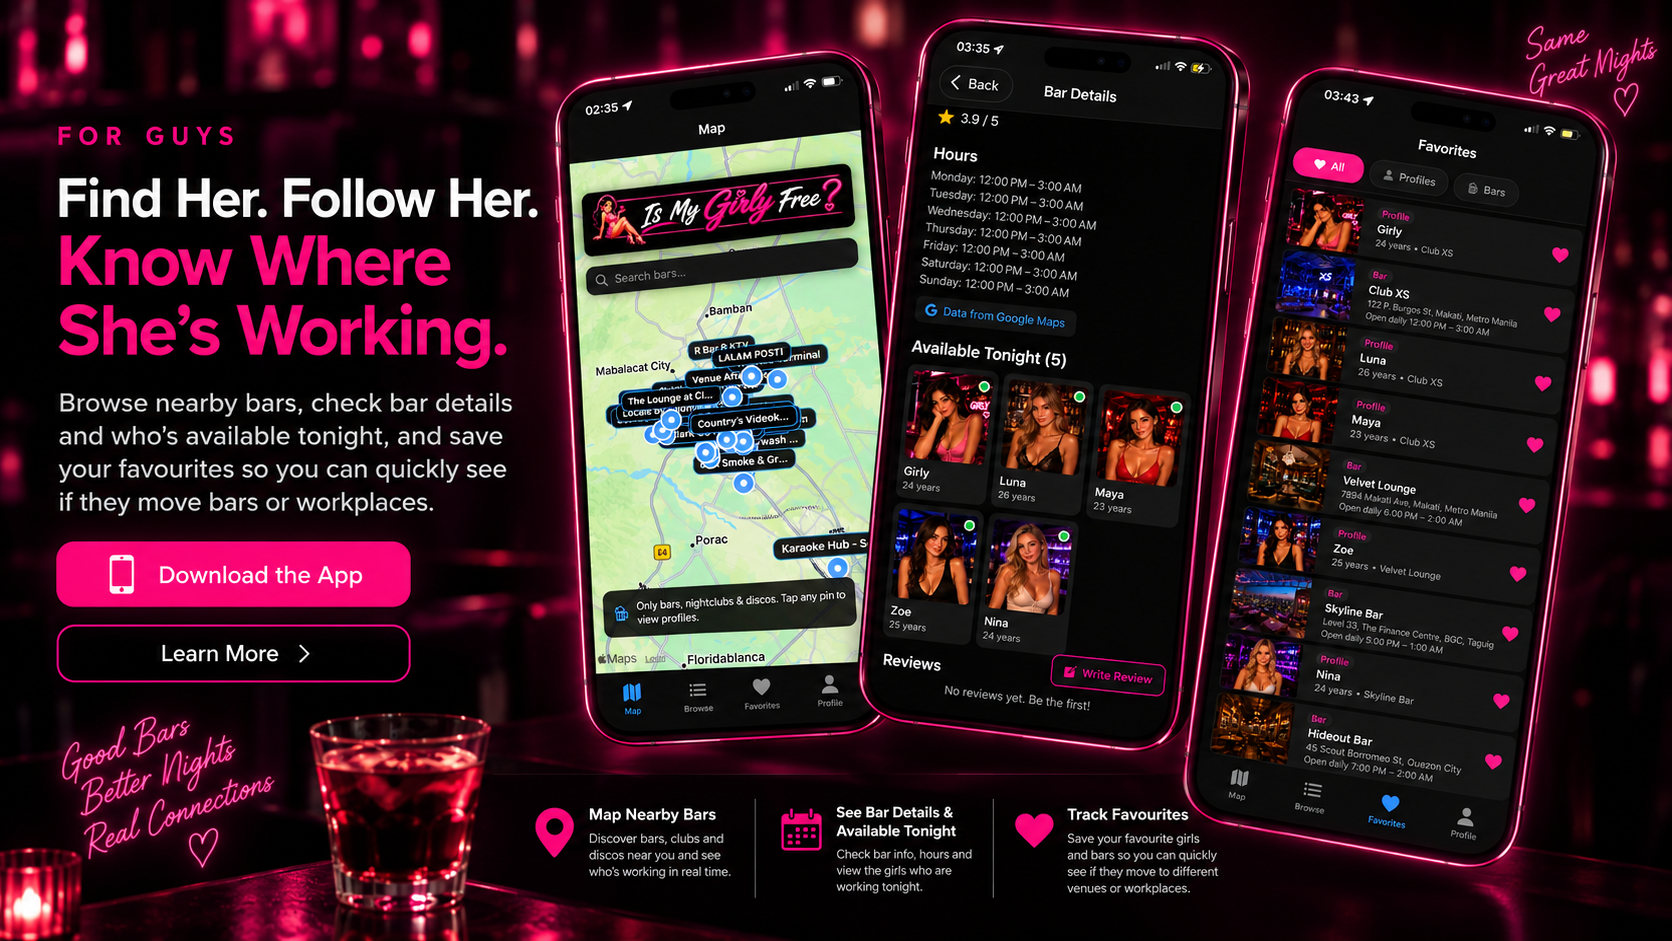
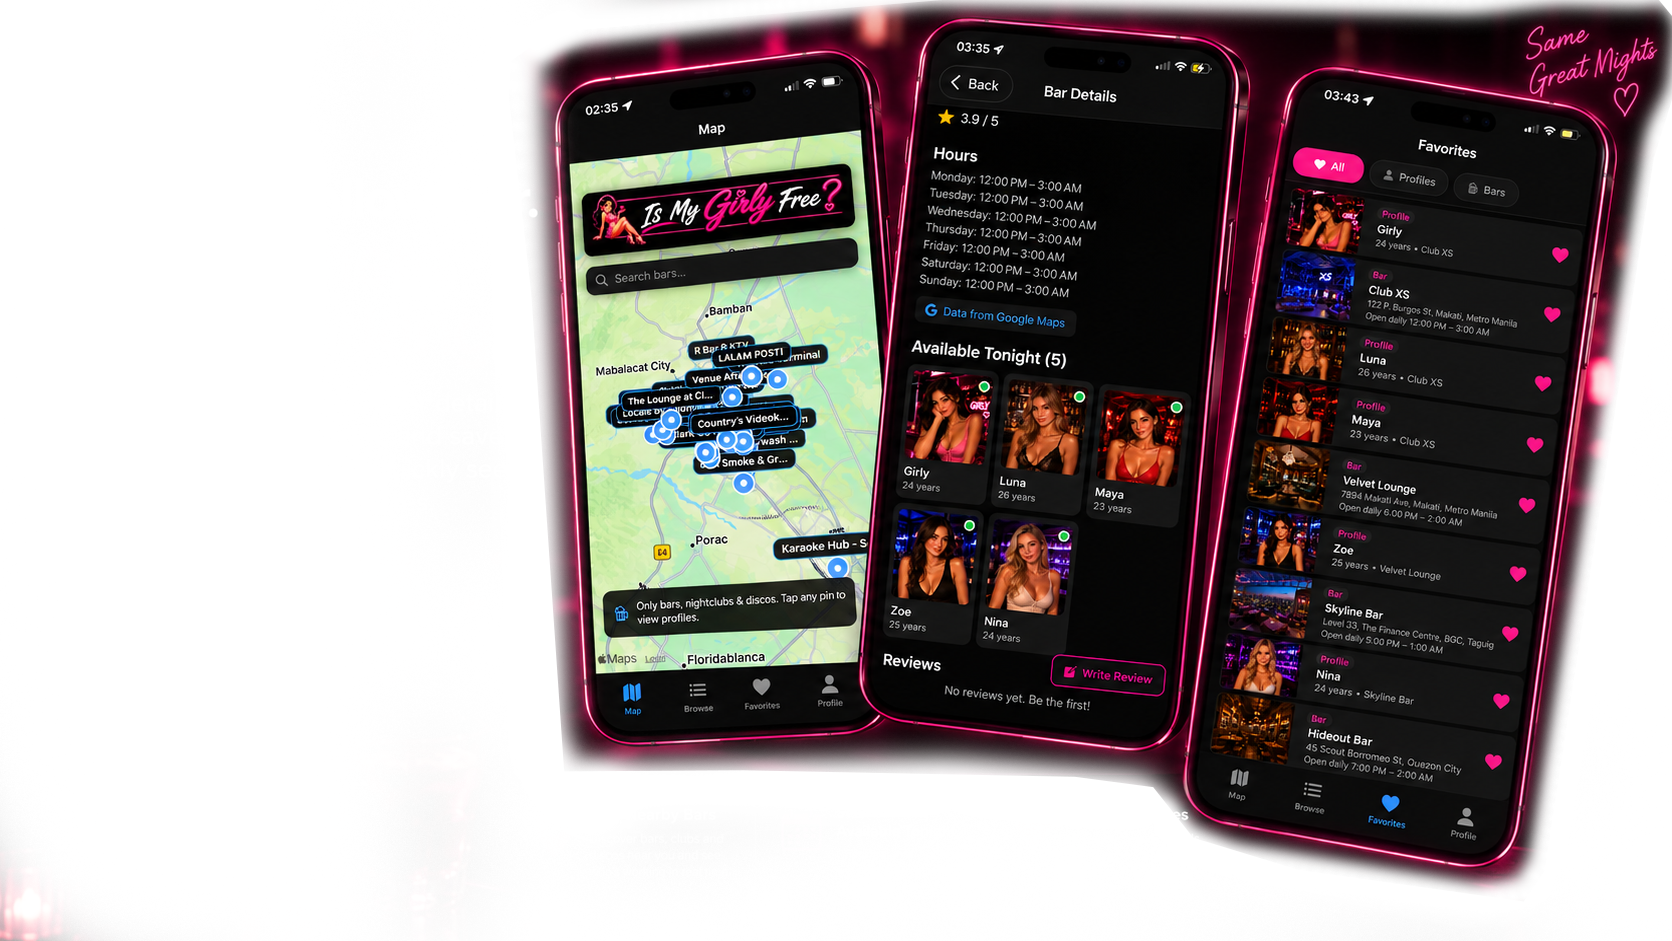
Rebuild For Guys section

diff --git a/src/app/page.tsx b/src/app/page.tsx
@@ -281,18 +281,89 @@ export default function Home() {
           </div>
         </div>
       </section>
-
-
       {/* For Guys visual */}
       <section id="guys" className="scroll-mt-56 border-b border-zinc-900 bg-black">
         <div className="mx-auto max-w-[1500px] px-6 py-16">
-          <Image
-            src="/for-guys-banner.png"
-            alt="For Guys - Find Her, Follow Her, Know Where She's Working"
-            width={1672}
-            height={941}
-            className="h-auto w-full rounded-3xl border border-pink-500/20"
-          />
+          <div className="relative min-h-[760px] overflow-hidden rounded-3xl border border-pink-500/20 bg-black">
+            <Image
+              src="/for-guys-banner.png"
+              alt="Is My Girly Free app screens"
+              fill
+              className="object-cover object-right scale-[0.84] origin-right"
+              sizes="100vw"
+            />
+
+            <div className="absolute inset-y-0 left-0 w-[52%] bg-gradient-to-r from-black via-black to-transparent" />
+            <div className="absolute inset-x-0 bottom-0 h-[23%] bg-gradient-to-t from-black via-black/95 to-transparent" />
+
+            <div className="relative z-10 flex min-h-[760px] flex-col justify-between p-8 sm:p-12 lg:p-16">
+              <div className="max-w-[470px]">
+                <p className="text-sm font-black uppercase tracking-[0.28em] text-pink-500">
+                  For Guys
+                </p>
+
+                <h2 className="mt-5 text-4xl font-black leading-[1.05] text-white sm:text-5xl lg:text-6xl">
+                  Find Her. Follow Her.
+                  <span className="mt-2 block text-pink-500">
+                    Know Where She&apos;s Working.
+                  </span>
+                </h2>
+
+                <p className="mt-7 text-lg leading-8 text-zinc-300">
+                  Browse nearby bars, check bar details and who&apos;s available tonight,
+                  and save your favourites so you can quickly see if they move bars or workplaces.
+                </p>
+
+                <div className="mt-8 flex flex-col gap-4 sm:flex-row">
+                  <a
+                    href="#download"
+                    className="inline-flex items-center justify-center rounded-xl bg-pink-500 px-8 py-4 text-base font-black text-white transition hover:bg-pink-400"
+                  >
+                    Download the App
+                  </a>
+
+                  <a
+                    href="#benefits"
+                    className="inline-flex items-center justify-center rounded-xl border border-pink-500 px-8 py-4 text-base font-black text-white transition hover:bg-pink-500/10"
+                  >
+                    Learn More →
+                  </a>
+                </div>
+              </div>
+
+              <div className="grid gap-4 pt-10 md:grid-cols-3">
+                <a
+                  href="#download"
+                  className="rounded-2xl border border-zinc-800 bg-black/80 p-5 backdrop-blur transition hover:border-pink-500"
+                >
+                  <p className="font-black text-white">Map Nearby Bars</p>
+                  <p className="mt-2 text-sm leading-6 text-zinc-400">
+                    Discover bars and see who&apos;s working tonight.
+                  </p>
+                </a>
+
+                <a
+                  href="#download"
+                  className="rounded-2xl border border-zinc-800 bg-black/80 p-5 backdrop-blur transition hover:border-pink-500"
+                >
+                  <p className="font-black text-white">See Bar Details &amp; Availability</p>
+                  <p className="mt-2 text-sm leading-6 text-zinc-400">
+                    Check bar information, hours and who&apos;s available.
+                  </p>
+                </a>
+
+                <a
+                  href="#benefits"
+                  className="rounded-2xl border border-zinc-800 bg-black/80 p-5 backdrop-blur transition hover:border-pink-500"
+                >
+                  <p className="font-black text-white">Track Favourites</p>
+                  <p className="mt-2 text-sm leading-6 text-zinc-400">
+                    Save favourite profiles and quickly find them again.
+                  </p>
+                </a>
+              </div>
+            </div>
+          </div>
         </div>
       </section>
 
